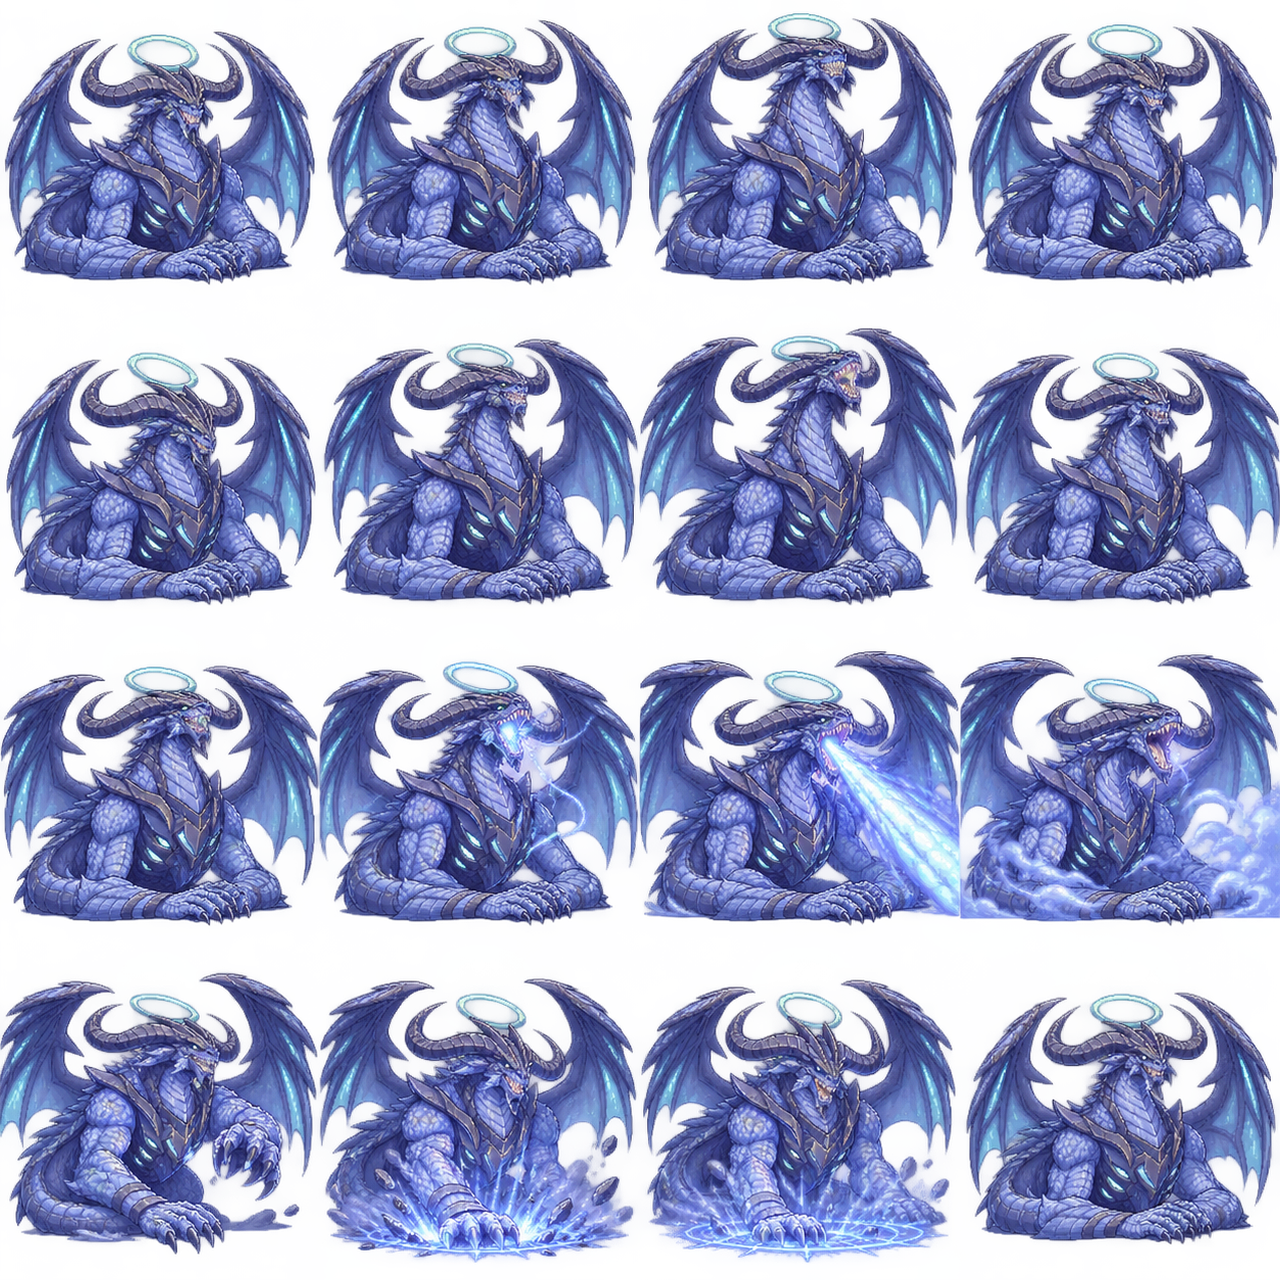
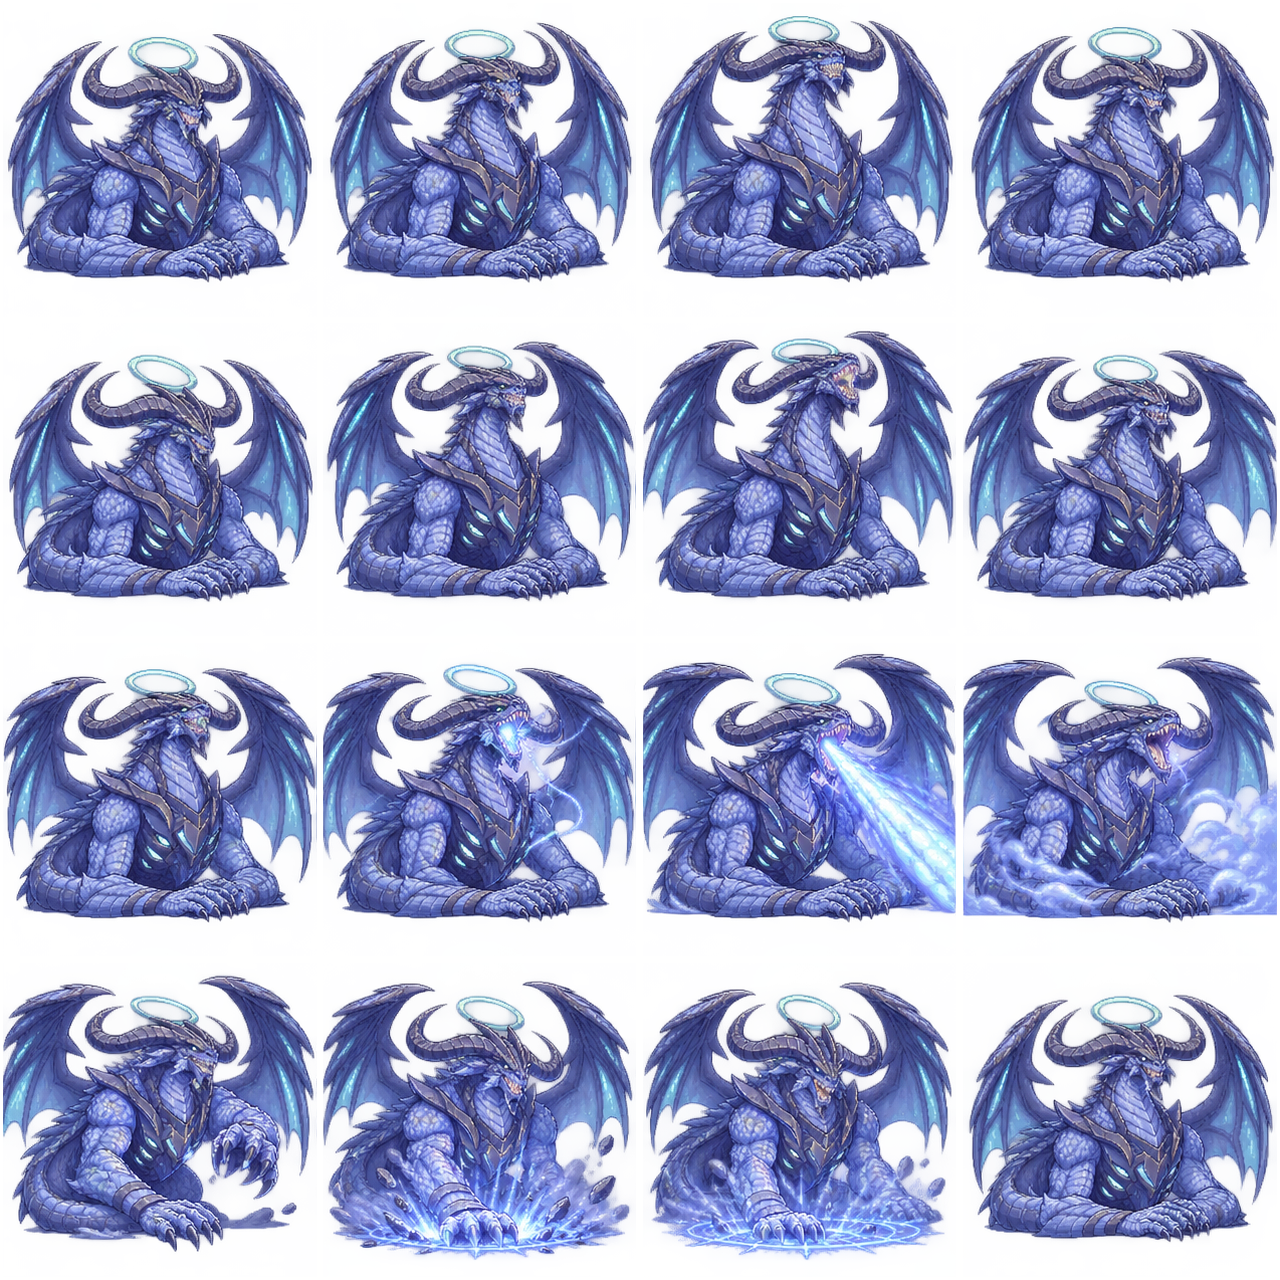
Yggdrasil v4.4 - animacoes dos bosses

diff --git a/public/game.js b/public/game.js
@@ -34,14 +34,14 @@ HERO.kris.src='assets/heroes/kris_sheet.png';
 HERO.cross.src='assets/heroes/cross_sheet.png';
 HERO.eve.src='assets/heroes/eve_sheet.png?v=33';
 HERO.kali.src='assets/heroes/kali_sheet.png?v=33';
-const ENEMY_URLS={walker:'assets/enemies/oni_walker.png',runner:'assets/enemies/oni_runner.png',caster:'assets/enemies/oni_caster.png',boss:'assets/enemies/samurai_sheet.png',reuni:'assets/enemies/reuni_sheet.png',tsukuomi:'assets/enemies/tsukuomi_sheet.png',ghost:'assets/enemies/ghost_sheet.png',yokai:'assets/enemies/yokai_sheet.png',beast:'assets/enemies/beast_sheet.png',pecado:'assets/enemies/pecado_sheet.png',draugr:'assets/enemies/nordic_draugr_sheet.png',frostwolf:'assets/enemies/nordic_frostwolf_sheet.png',berserker:'assets/enemies/nordic_berserker_sheet.png',runewitch:'assets/enemies/nordic_runewitch_sheet.png',frostjarl:'assets/enemies/jarl_v39_atlas.png?v=39',nameless:'assets/nordic/nameless_knight_sheet.png?v=43',runeSeal:'assets/nordic/nameless_knight.png?v=41'};
+const ENEMY_URLS={walker:'assets/enemies/oni_walker.png',runner:'assets/enemies/oni_runner.png',caster:'assets/enemies/oni_caster.png',boss:'assets/enemies/samurai_sheet.png',reuni:'assets/enemies/reuni_sheet.png',tsukuomi:'assets/enemies/tsukuomi_sheet.png',ghost:'assets/enemies/ghost_sheet.png',yokai:'assets/enemies/yokai_sheet.png',beast:'assets/enemies/beast_sheet.png',pecado:'assets/enemies/pecado_sheet.png',draugr:'assets/enemies/nordic_draugr_sheet.png',frostwolf:'assets/enemies/nordic_frostwolf_sheet.png',berserker:'assets/enemies/nordic_berserker_sheet.png',runewitch:'assets/enemies/nordic_runewitch_sheet.png',frostjarl:'assets/enemies/jarl_v39_atlas.png?v=44',nameless:'assets/nordic/nameless_knight_sheet.png?v=44',runeSeal:'assets/nordic/nameless_knight.png?v=41'};
 const FROG=new Image();FROG.src='assets/heroes/kris_frog_sheet.png';
 const ARENA=new Image(); ARENA.src='assets/japanese_arena.webp';
 const NORDIC_ARENA=new Image();NORDIC_ARENA.src='assets/nordic/frozen_arena.webp?v=37';
 const isNordic=()=>stage>=21;const localNordicWave=()=>Math.max(1,stage-20);
 let selectedCampaign='japan',activeCampaign='japan';
 const isCampaignFinalWave=()=>activeCampaign==='nordic'?stage===35:stage===20;
-const DRAGON_ART=new Image();DRAGON_ART.src='assets/nordic/ancient_dragon_sheet.png?v=43';
+const DRAGON_ART=new Image();DRAGON_ART.src='assets/nordic/ancient_dragon_sheet.png?v=44';
 const JARL_BOSS_ART=new Image();JARL_BOSS_ART.src='assets/nordic/jarl_boss_v38.webp?v=38';
 const SAMURAI_BOSS_ART=new Image();SAMURAI_BOSS_ART.src='assets/ui/samurai_boss_v38.webp?v=38';
 const NORDIC_VFX={};for(const n of ['ice','rune','rage']){NORDIC_VFX[n]=new Image();NORDIC_VFX[n].src='assets/nordic/vfx_'+n+'.png';}
@@ -52,6 +52,20 @@ const isBossEnemy=e=>['boss','reuni','tsukuomi','pecado','frostjarl','nameless']
 const CARD_IMAGES={heart:'assets/cards/heart.png',blade:'assets/cards/blade.png',fast:'assets/cards/fast.png',speed:'assets/cards/speed.png',armor:'assets/cards/armor.png',reach:'assets/cards/reach.png',dodge:'assets/cards/dodge.png',heal:'assets/cards/heal.png',critical:'assets/cards/critical.png',arc:'assets/cards/arc.png',vigor:'assets/cards/vigor.png',echo:'assets/cards/echo.png',shadowblade:'assets/cards/shadowblade.png',shadowdash:'assets/cards/shadowdash.png',darkburst:'assets/cards/darkburst.png',living:'assets/cards/living.png',black:'assets/cards/black.png',form:'assets/cards/form.png',awakening:'assets/cards/awakening.png',bloodmoon:'assets/cards/bloodmoon.png',ancient:'assets/cards/ancient.png',dragonPact:'assets/nordic/nameless_knight.png?v=41',frog:'assets/cards/frog.png',gaster:'assets/cards/gaster.png',granita:'assets/cards/granita.png',mirror:'assets/cards/arc.png',mirrorguard:'assets/cards/armor.png',voidblade:'assets/cards/blade.png',timeward:'assets/cards/fast.png'};
 const ENEMY_ART={};
 for(const name of Object.keys(ENEMY_URLS)) {ENEMY_ART[name]=new Image();ENEMY_ART[name].src=ENEMY_URLS[name];}
+// Missing sheets must never make bosses vanish. Keep a compatible still-art
+// fallback while reporting the missing texture in the console for debugging.
+const BOSS_FALLBACKS={
+  nameless:'assets/nordic/nameless_knight.png?v=44',
+  frostjarl:'assets/enemies/nordic_frostjarl_sheet.png?v=44'
+};
+for(const [kind,fallback] of Object.entries(BOSS_FALLBACKS)){
+  const main=ENEMY_ART[kind];main.onerror=()=>{
+    if(main.src.includes(fallback))return;
+    console.warn('[Yggdrasil] Sprite animado não carregou:',kind,main.src);
+    main.src=fallback;main.datasetFallback=true;
+  };
+}
+const DRAGON_FALLBACK=new Image();DRAGON_FALLBACK.src='assets/nordic/ancient_dragon.png?v=44';
 let movingNow=false;
 
 const THEMES=[{name:'RAIZ DA MEMÓRIA',floor:'#252337',wall:'#171729',accent:'#9383dc',danger:'#8b70bb'},{name:'RAIZ DA MORTE',floor:'#2b2430',wall:'#1a151f',accent:'#b064a8',danger:'#be668b'},{name:'RAIZ DO TEMPO',floor:'#222e38',wall:'#101f2b',accent:'#6bc3d1',danger:'#66b2e4'},{name:'RAIZ DA VIDA',floor:'#273229',wall:'#18261a',accent:'#8bc078',danger:'#89bf65'},{name:'RAIZ DA VONTADE',floor:'#382924',wall:'#291a17',accent:'#e4a36d',danger:'#d78a72'},{name:'RAIZ DA ESPERANÇA',floor:'#34313a',wall:'#201d2c',accent:'#e5be89',danger:'#f0c994'},{name:'RAIZ DA ALMA',floor:'#282e41',wall:'#161d2d',accent:'#89a7f8',danger:'#a18fed'}];
@@ -902,6 +916,7 @@ function updateSamurai(e,dt,d,dir,spd){
  if(e.mode==='windup'){
   e.windup-=dt;
   if(e.windup<=0){
+   e.attackPose=.78;
    if(e.move==='eclipse'){YG_AUDIO.play('bossEclipse',1.22);
     const dx=player.x-e.x,dy=player.y-e.y,distp=Math.hypot(dx,dy),ang=Math.atan2(dy,dx),diff=Math.atan2(Math.sin(ang-e.angle),Math.cos(ang-e.angle));
     slash(e.x+Math.cos(e.angle)*21,e.y+Math.sin(e.angle)*21,e.angle,e.rage?84:71,'#ff3d67');ring(e.x,e.y,23,'#cf3d64');
@@ -975,6 +990,7 @@ function updateReuni(e,dt,d,dir,spd){
   e.windup-=dt;
   // The marked attack does not hurt the player before the visible warning finishes.
   if(e.windup<=0){
+   e.attackPose=.78;
    if(e.move==='claws'){
     YG_AUDIO.play('bossEclipse',1.15);
     let ang=e.angle,r=e.rage?71:59;
@@ -1052,6 +1068,7 @@ function updateTsukuomi(e,dt,d,dir,spd){
  if(e.mode==='windup'){
   e.windup-=dt;
   if(e.windup<=0){
+   e.attackPose=.78;
    if(e.move==='gaze'){
     const spread=e.rage?7:5;
     for(let i=0;i<spread;i++){
@@ -1118,6 +1135,7 @@ function updatePecado(e,dt,d,dir,spd){
  if(e.mode==='windup'){
   e.windup-=dt;
   if(e.windup<=0){
+   e.attackPose=.78;
    if(e.move==='curse'){
     let diff=Math.atan2(Math.sin(Math.atan2(player.y-e.y,player.x-e.x)-e.angle),Math.cos(Math.atan2(player.y-e.y,player.x-e.x)-e.angle));
     if(d<210&&Math.abs(diff)<.58){applyCurse(6.8);hurtPlayer(e.corruptionPhase===2?29:18);}
@@ -1330,13 +1348,36 @@ function safeWalkFrame(e,cols=3,mult=1){
  const raw=Math.floor(step*mult+phase);
  return ((raw%count)+count)%count;
 }
+// Each boss has a separate visible attack pose. The Japan sheets contain
+// three drawn frames per direction (not dedicated attack sheets), so we pair
+// the existing poses with a physical lunge and weapon FX. The knight, Jarl,
+// and dragon use their original dedicated attack frames instead.
+function bossAttackActive(e){return e.mode==='windup'||e.mode==='charge'||e.mode==='guard'||(e.attackPose||0)>0;}
+function japaneseBossFrame(e){
+ if(e.mode==='windup')return [1,2,0,2][Math.floor(elapsed*9)%4];
+ if(e.mode==='charge')return [2,1,0][Math.floor(elapsed*15)%3];
+ if((e.attackPose||0)>0)return [2,0,1][Math.floor(elapsed*11)%3];
+ if(e.walking)return [0,1,2,1][safeWalkFrame(e,4,1.35)];
+ return 1;
+}
+function bossVisualLunge(e){
+ if(e.mode==='charge')return 5;
+ if(e.mode==='windup')return -3;
+ if((e.attackPose||0)>0)return Math.sin(elapsed*23)*3.8;
+ return 0;
+}
 // Both sprites use 4×4 atlases with independently bounded 320×320 cells.
 // This routine never samples outside a frame, even on an incomplete network snapshot.
 function drawNordicAtlasFrame(img,frame,x,y,w,h=w){
  if(!img||!img.complete||!img.naturalWidth||!img.naturalHeight)return false;
+ // Only the real atlas is divided into 16 pieces. If its optional fallback
+ // is in use, paint the whole image rather than cropping a nonexistent grid.
+ if(img.naturalWidth!==1280||img.naturalHeight!==1280){
+   ctx.drawImage(img,0,0,img.naturalWidth,img.naturalHeight,x,y,w,h);
+   return true;
+ }
  const index=((Math.floor(Number.isFinite(frame)?frame:0)%16)+16)%16;
- const fw=img.naturalWidth/4,fh=img.naturalHeight/4;
- if(fw<=0||fh<=0)return false;
+ const fw=320,fh=320;
  ctx.drawImage(img,(index%4)*fw,Math.floor(index/4)*fh,fw,fh,x,y,w,h);
  return true;
 }
@@ -1365,18 +1406,27 @@ function namelessDragonFrame(e){
 }
 function drawNamelessDragon(){
  const boss=enemies.find(e=>e.type==='nameless'&&e.hp>0&&e.rage);
- if(!boss||!DRAGON_ART.complete||!DRAGON_ART.naturalWidth)return;
+ if(!boss)return;
+ const dragonImage=DRAGON_ART.complete&&DRAGON_ART.naturalWidth?DRAGON_ART:DRAGON_FALLBACK;
+ if(!dragonImage.complete||!dragonImage.naturalWidth)return;
  // The dragon is a huge animated arena entity, not a small projectile:
  // anchor it in the camera view so mobile players can see it completely.
  const size=clamp(Math.min(W*.62,H*.82),155,320);
  const dx=camera.x+W-size-8,dy=camera.y+8;
  ctx.save();ctx.globalAlpha=(boss.pactBroken>0?.65:1)*(boss.dragonIntro>0?clamp((4.5-boss.dragonIntro)/1.15,.05,1):1);
  ctx.shadowColor='#84bfff';ctx.shadowBlur=lowFx()?0:13;
- drawNordicAtlasFrame(DRAGON_ART,namelessDragonFrame(boss),dx,dy,size,size);
+ drawNordicAtlasFrame(dragonImage,namelessDragonFrame(boss),dx,dy,size,size);
  ctx.restore();
 }
 function enemySprite(e){
  const img=ENEMY_ART[e.type];
+ if(isBossEnemy(e)&&(!img||!img.complete||!img.naturalWidth)){
+  // A missing upload should never turn an enemy into an invisible hitbox.
+  ctx.save();ctx.translate(e.x,e.y);ctx.fillStyle='#361e4f';ctx.strokeStyle='#e5a8ff';
+  ctx.lineWidth=3;ctx.beginPath();ctx.ellipse(0,-32,25,37,0,0,TAU);ctx.fill();ctx.stroke();
+  ctx.fillStyle='#ffffff';ctx.font='bold 9px system-ui';ctx.textAlign='center';
+  ctx.fillText('BOSS',0,-31);ctx.restore();return;
+ }
  if(img&&img.complete&&img.naturalWidth){
   ctx.save();ctx.translate(Math.round(e.x),Math.round(e.y));
   if(e.type==='nameless'){
@@ -1393,9 +1443,10 @@ function enemySprite(e){
    // 4×4 atlas: frames 0–7 idle/walk, 8–11 axe swings, 12–15 ice magic.
    // Never use e.phase directly; some network snapshots omit it.
    const attack=e.mode==='windup'||(e.attackPose||0)>0;
-   const frame=e.mode==='windup'?(8+(Math.floor(elapsed*5)%4)):
-     (e.attackPose||0)>0?(12+(Math.floor(elapsed*9)%4)):
-     e.walking?safeWalkFrame(e,8,.85):0;
+   const magic=['shards','blizzard','crush','summon'].includes(e.move);
+   const frame=e.mode==='windup'?(magic?12:8)+(Math.floor(elapsed*8)%4):
+     (e.attackPose||0)>0?(magic?12:8)+(Math.floor(elapsed*12)%4):
+     e.walking?safeWalkFrame(e,8,.85):Math.floor(elapsed*2)%4;
    const sz=136;
    ctx.fillStyle='#0c1426a0';ctx.beginPath();ctx.ellipse(0,-2,49,13,0,0,TAU);ctx.fill();
    if(e.rage||attack){ctx.shadowColor='#73d9ff';ctx.shadowBlur=lowFx()?0:(e.rage?21:11);}
@@ -1414,7 +1465,17 @@ function enemySprite(e){
    if(e.hurt>0){ctx.globalAlpha=Math.min(.27,e.hurt*2);ctx.fillStyle='#fff';ctx.fillRect(-sz/2,-sz+9,sz,sz);}
   }else if(isBossEnemy(e)){
    const row={down:0,left:1,right:2,up:3}[e.face||'down']??0;
-   const col=e.walking?safeWalkFrame(e,3,1.15):0;
+   const col=japaneseBossFrame(e);
+   const attacking=bossAttackActive(e);
+   if(attacking){
+     const angle=e.face==='left'?Math.PI:e.face==='up'?-Math.PI/2:e.face==='down'?Math.PI/2:0;
+     const lunge=bossVisualLunge(e);
+     ctx.translate(Math.cos(angle)*lunge,Math.sin(angle)*lunge);
+     // Attack pulse remains visible even for sprites without special frames.
+     ctx.strokeStyle=e.type==='tsukuomi'?'#b99cff':e.type==='pecado'?'#ff365a':e.type==='reuni'?'#ff7992':'#eeb3a7';
+     ctx.lineWidth=1.8;ctx.globalAlpha=.9;
+     ctx.beginPath();ctx.arc(0,-25,30+Math.sin(elapsed*16)*3,elapsed*5,elapsed*5+1.0);ctx.stroke();ctx.globalAlpha=1;
+   }
    if(e.rage){ctx.shadowColor=e.type==='pecado'?'#f10d2c':e.type==='tsukuomi'?'#9f59ea':e.type==='reuni'?'#fa1e3e':'#f7367c';ctx.shadowBlur=lowFx()?0:10;ctx.fillStyle='#9e1d5166';ctx.beginPath();ctx.ellipse(0,-10,23,25,0,0,TAU);ctx.fill();ctx.shadowBlur=0;}
    if(e.mode==='guard'&&e.type==='boss'){ctx.strokeStyle='#fa607f';ctx.lineWidth=2;ctx.beginPath();ctx.arc(0,-12,32,0,TAU);ctx.stroke();}
    if(e.mode==='windup'){ctx.shadowColor=e.type==='tsukuomi'?'#ae78ff':'#f46c92';ctx.shadowBlur=lowFx()?0:10;}
@@ -2075,7 +2136,7 @@ function coopSendState(force=false){
  // No random per-client enemy selection or culled mobs; boss HP and hit registration
  // are calculated only here, on the host.
  const slim=(e)=>{const o={};for(const k of [
-  'id','type','x','y','hp','maxHp','radius','face','step','mode','move',
+  'id','type','x','y','hp','maxHp','radius','face','step','walking','mode','move',
   'phase','rage','hurt','attack','attackPose','attackTime','atkTime','windup','charge','chargeTime',
   'chargeDir','guardTime','guardCd','corruptTime','corrupted','slow','speed',
   'counterCd','summonTimer','bossPhase','specialIndex','corruptionPhase','isElite',

diff --git a/public/game.html b/public/game.html
@@ -4,7 +4,7 @@
 <meta charset="utf-8">
 <meta name="viewport" content="width=device-width,initial-scale=1,viewport-fit=cover">
 <meta name="theme-color" content="#100f1d">
-<title>Yggdrasil — As Sete Raízes | Online Cooperativo · v3.8</title>
+<title>Yggdrasil — As Sete Raízes | Online Cooperativo · v4.4</title>
 <style>
 :root{--ink:#11111f;--panel:#1b192a;--line:#554568;--gold:#eac58b;--pale:#f4e5d6;--muted:#afa3bb;--purple:#bd6eff;--red:#f56f87;--cyan:#6cdeff}
 *{box-sizing:border-box}html,body{margin:0;min-height:100%;color:var(--pale);background:#0b0b14;font-family:Georgia,'Times New Roman',serif}button{font:inherit;cursor:pointer}button:focus-visible,.hero-choice:focus-visible,.upgrade:focus-visible{outline:2px solid #fff;outline-offset:2px}
@@ -395,6 +395,6 @@ body.touch-ui #btnAttack.aim-stick:after{content:'✚';font-size:11px;position:a
  setTimeout(hide,reduced?1300:5100);
 })();
 </script>
-<script src="audio.js?v=40"></script><script src="game.js?v=43"></script></body></html>
+<script src="audio.js?v=44"></script><script src="game.js?v=44"></script></body></html>
 
 

diff --git a/public/index.html b/public/index.html
@@ -408,6 +408,6 @@ body.touch-ui #btnAttack.aim-stick:after{content:'✚';font-size:11px;position:a
  setTimeout(hide,reduced?1300:5100);
 })();
 </script>
-<script src="audio.js?v=42"></script><script src="game.js?v=43"></script></body></html>
+<script src="audio.js?v=44"></script><script src="game.js?v=44"></script></body></html>
 
 

diff --git a/README.md b/README.md
@@ -1,3 +1,20 @@
+# YGGDRASIL v4.4 — Sprites e animações dos chefes funcionando
+
+Base v4.3 integral, com as cinco cartas japonesas e limites de atributos do Reino Nórdico mantidos.
+
+- Cavaleiro e dragão: 16 quadros **reais** cada, derivados diretamente das imagens fornecidas pelo criador, em células 320x320, sem ampliar/reduzir os pixels originais; jogo usa os estados de caminhada, ataque, magia e invocação.
+- As quatro lutas japonesas (Daimyō Oni, Reuni, Tsukuyomi e Pecado) ganharam estados visuais de preparo, investida e golpe no **spritesheet que já existia**. As folhas japonesas só têm 3 poses por direção, portanto estas animações combinam suas poses originais com movimento e efeitos; não são artes de ataque totalmente novas.
+- Jarl do Gelo alterna entre poses de machado (quadros 8–11) e magias (12–15).
+- No online, o host envia também `walking` e `attackPose`, evitando chefes estáticos nos convidados.
+- Fallback para arte estática do Cavaleiro/Dragão quando a animação não carrega; nenhum chefe fica com hitbox invisível se uma imagem falhar.
+- `index.html` e `game.html` agora usam `game.js?v=44` para eliminar código antigo de cache.
+- Testes adicionais: `npm run test:animations`, `npm run test:sprites`, `npm run test:bosses`.
+- Arquivos visuais e trilhas anteriores preservados integralmente; apenas os atlas do Cavaleiro e do Dragão foram reconstruídos com pixels originais sem interpolação.
+
+Para publicar via Cloudflare Workers: descompactar a atualização sobre a v4.3, rodar testes, executar `npx wrangler deploy` e dar commit em `public`, `src`, `tests`, `package.json` e `README.md`.
+
+---
+
 # YGGDRASIL v4.3 — Cartas japonesas e animação do Cavaleiro
 
 - **Reino Nórdico:** 5 cartas japonesas comuns/raras, sorteadas sem repetição para cada herói no solo e no online; cartas nórdicas não são sorteadas nesta campanha. O Japão mantém o baralho e a progressão originais.
